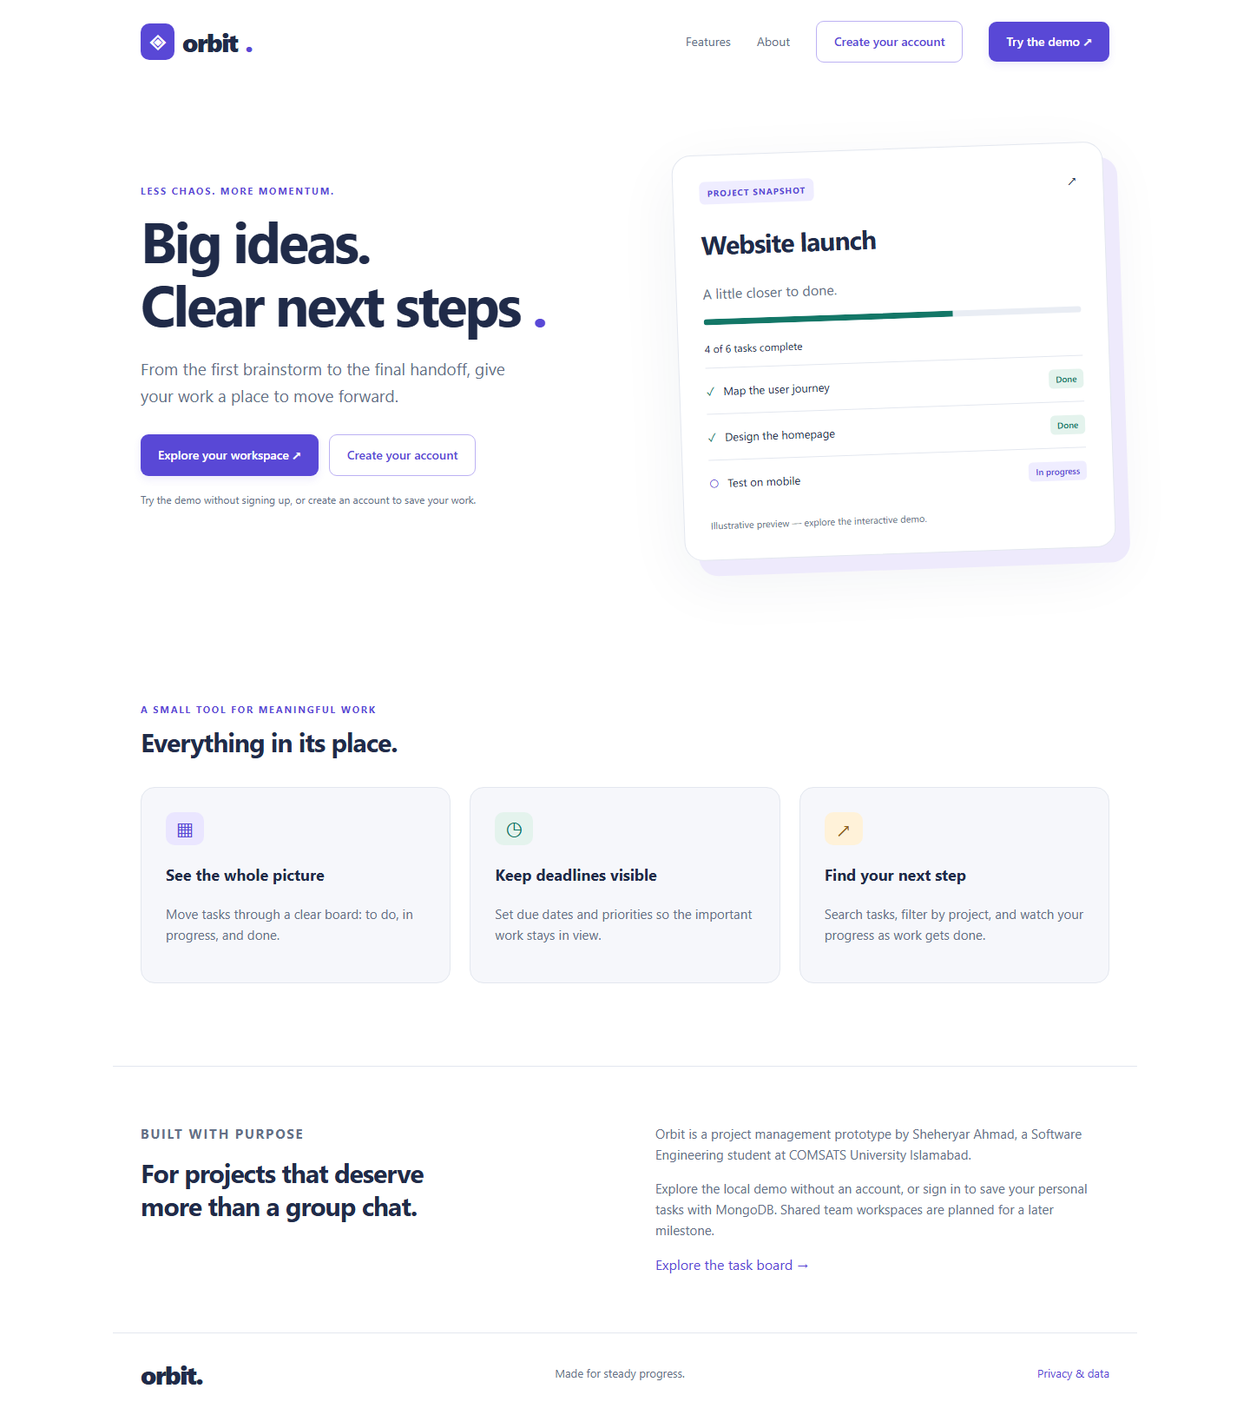
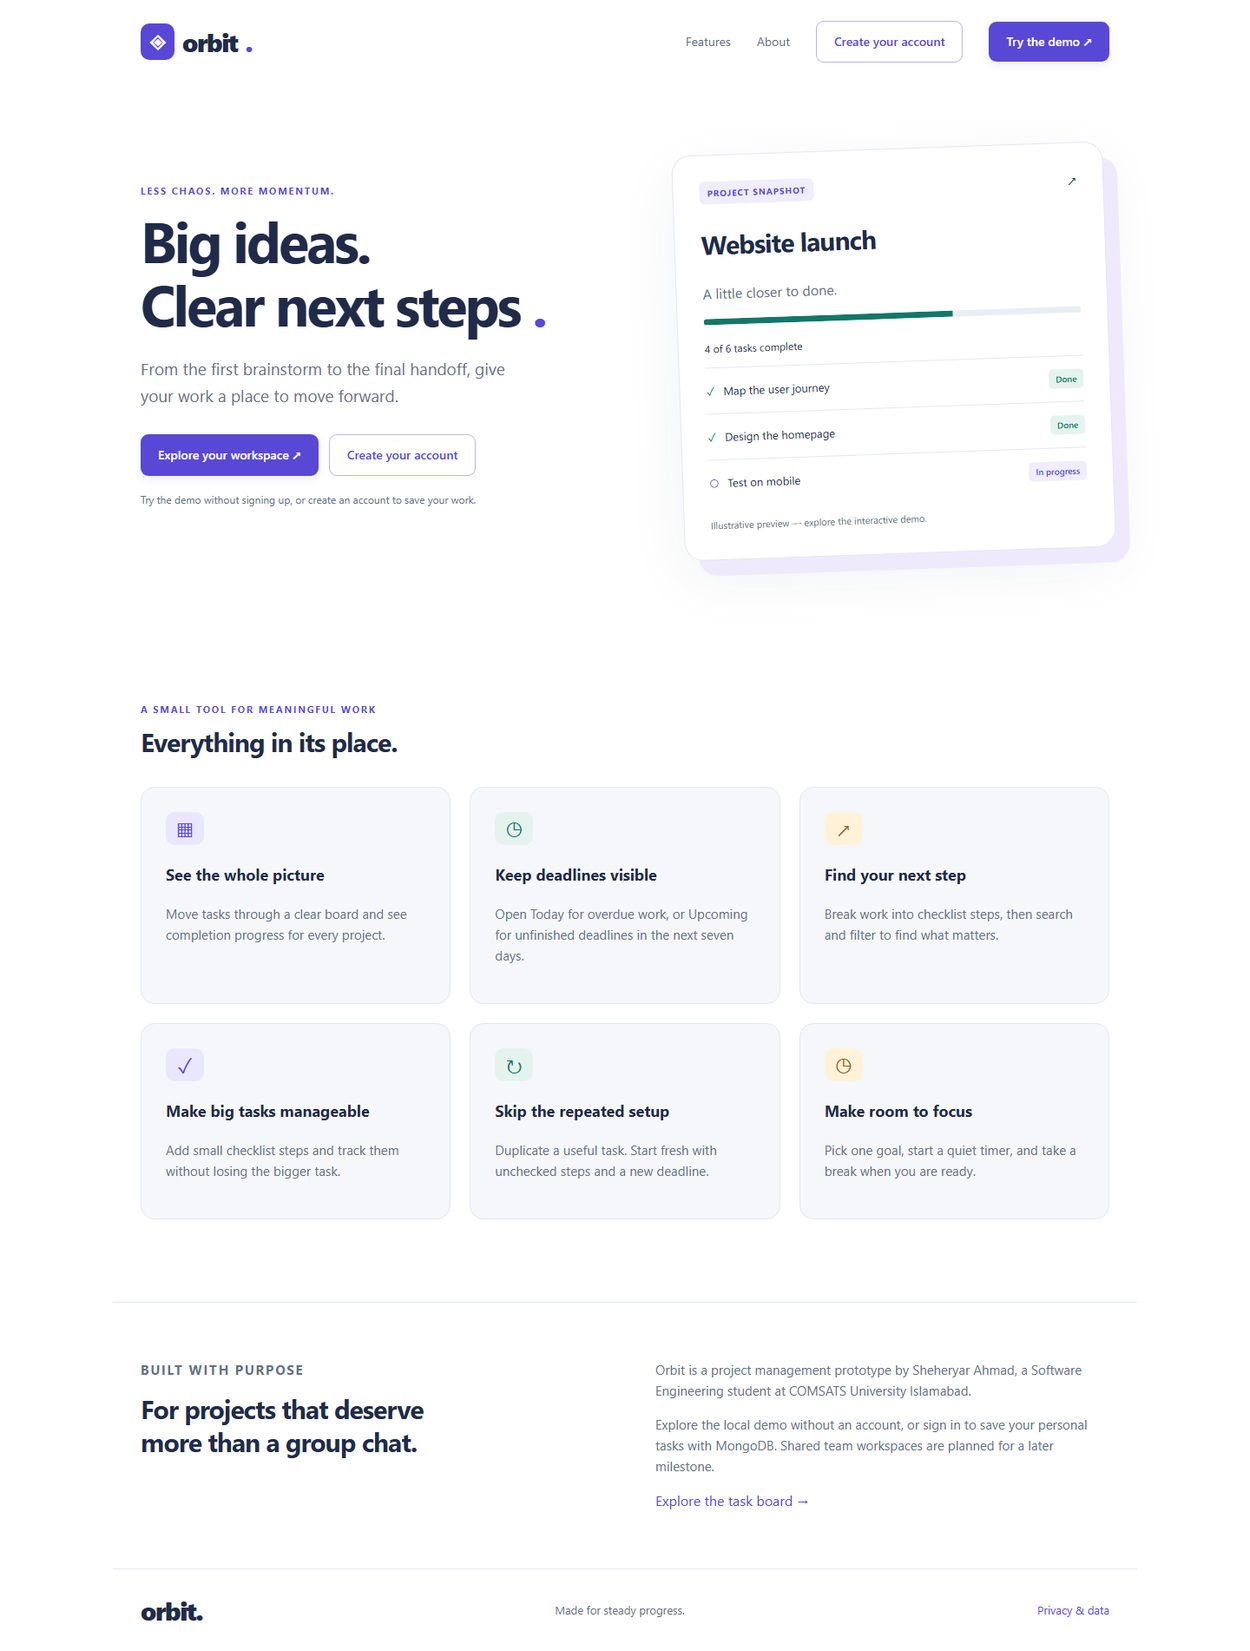
docs: refresh release guide screenshots and monetization plan

diff --git a/README.md b/README.md
@@ -4,7 +4,7 @@
 
 ### A clearer place for projects to move forward.
 
-A MERN project management tool with private accounts, a focused task board, and a no-signup demo.
+A MERN project management tool for deadlines, clear next steps, and calmer daily work.
 
 ![MongoDB](https://img.shields.io/badge/MongoDB-Database-137767?style=flat-square)
 ![Express](https://img.shields.io/badge/Express-API-202b49?style=flat-square)
@@ -26,14 +26,18 @@ A project starts with an idea. Then come the messages, scattered notes, and dead
 
 Built by **Sheheryar Ahmad**, a Semester 5 Software Engineering student at **COMSATS University Islamabad**.
 
-> **Current release: 0.2.0.** Personal task workspaces with MERN persistence and a separate local demo. Shared team projects, invitations, and live collaboration are future milestones. No production deployment is claimed.
+> **Current release: 0.3.0.** Personal workspaces with daily planning, checklists, project progress, a focus timer, MERN persistence, and a separate local demo. Shared team projects, invitations, and live collaboration are future milestones. No production deployment is claimed.
 
 ## A look inside
 
 ![Orbit React task board showing project tasks, priorities, status columns, and progress counters](docs/screenshots/workspace-desktop.png)
 
 <details>
-<summary><strong>See the landing page and mobile workspace</strong></summary>
+<summary><strong>See project progress, the focus timer, and mobile layouts</strong></summary>
+
+![Project overview with completion progress and unfinished deadlines](docs/screenshots/projects-desktop.png)
+
+![Quiet focus timer with pause, reset, and session length controls](docs/screenshots/focus-desktop.png)
 
 ![Orbit landing page introducing the project management tool](docs/screenshots/landing-desktop.png)
 
@@ -52,6 +56,11 @@ Screenshots are from the working local demo using illustrative sample tasks.
 | Task editing             | Create, edit, delete, and update status                            |
 | Project labels           | Keep tasks organized by project and filter the board               |
 | Priorities and deadlines | Make important work and overdue tasks visible                      |
+| Today and Upcoming       | Find overdue work, today’s tasks, and the next seven days          |
+| Checklists               | Break a task into up to 20 steps and track completion              |
+| Project overview         | See completion progress and the earliest unfinished deadline       |
+| Duplicate task           | Reuse a task with fresh steps and a cleared deadline               |
+| Focus timer              | Work in quiet sessions with pause, break, and refresh recovery     |
 | Search                   | Find tasks by title, description, or project label                 |
 | Account-wide overview    | Track total, active, completed, and overdue work                   |
 | Bounded pagination       | Browse 30 tasks per page instead of loading everything             |
@@ -61,6 +70,14 @@ Screenshots are from the working local demo using illustrative sample tasks.
 | Public pages             | Static marketing content and an honest privacy notice              |
 
 **Scope clarification:** projects currently are labels on tasks. They are not shared project entities with members or permissions.
+
+## Small problems, practical workflows
+
+- **A student with several assignments:** check Today, split a submission into research/draft/review steps, then see the week's deadlines in Upcoming.
+- **A freelancer preparing a delivery:** group tasks under the client project, see unfinished deadlines, and duplicate a reusable delivery checklist.
+- **Someone organizing a personal project:** keep the next steps visible and use a quiet focus session to make progress.
+
+Checklist completion and task status are separate: finishing the steps leaves you in control of when the whole task is done. Project percentages count completed tasks, not checklist steps. The timer stays in the same browser and does not send your written focus goal to the server.
 
 ## Getting started
 
@@ -132,9 +149,9 @@ Read [the architecture notes](docs/ARCHITECTURE.md) for the reasoning behind com
 ├── api/                   # Vercel function entry point
 ├── assets/                # Favicon and README artwork
 ├── client/
-│   ├── components/        # Auth screen, task card, task form
+│   ├── components/        # Auth, task forms, projects, focus timer
 │   ├── hooks/             # Workspace loading and mutations
-│   ├── lib/               # API client and isolated demo adapter
+│   ├── lib/               # API client, demo adapter, timer helpers
 │   ├── App.jsx
 │   ├── main.jsx
 │   └── workspace.css
@@ -150,7 +167,7 @@ Read [the architecture notes](docs/ARCHITECTURE.md) for the reasoning behind com
 │   ├── routes/            # Auth and task endpoints
 │   ├── app.js
 │   └── index.js
-├── shared/                # Calendar validation used by client and server
+├── shared/                # Calendar validation and planning rules
 ├── tests/                 # Validation and MongoDB API integration tests
 ├── app.html               # React workspace entry point; noindex
 ├── index.html             # Crawlable public landing page
@@ -189,7 +206,7 @@ npm run build
 npm run format:check
 ```
 
-**Verified locally:** 17 API/input/password tests and Chromium browser flows covering demo CRUD, storage persistence, search, filters, safe text rendering, mobile overflow, dialog Escape, registration, database-backed task persistence, logout, and login.
+**Verified locally:** 25 API/input/planning/timer/password tests and Chromium browser flows covering demo CRUD, storage persistence, search, filters, safe text rendering, mobile overflow, dialog Escape, checklists, task duplication, daily views, overnight date changes, project progress, focus pause/refresh/completion, registration, database-backed task persistence, logout, and login.
 
 For browser checks:
 
@@ -235,8 +252,15 @@ When SITE_URL is configured, the build generates:
 
 No fabricated reviews, keyword stuffing, or unsupported ranking claims. A README improves repository understanding and discoverability; website ranking also depends on deployed content, indexing, usefulness, and real performance. See [the SEO launch checklist](docs/SEO.md).
 
+## Monetization
+
+No ads are installed in this release. The proposed approach keeps the workspace ad-free and considers a clearly labelled unit on useful public planning content after deployment and AdSense approval. SEO does not guarantee approval or income. Read [the monetization plan](docs/MONETIZATION.md).
+
 ## Next milestones
 
+- [ ] Recurring tasks with explicit scheduling rules
+- [ ] Task notes and useful resource links
+- [ ] Export and validated import for personal backups
 - [ ] Separate project entities and shared workspace memberships
 - [ ] Invitations and role-based authorization
 - [ ] Email verification, password reset, and account deletion
@@ -244,7 +268,9 @@ No fabricated reviews, keyword stuffing, or unsupported ranking claims. A README
 - [ ] Accessibility audit and measured production performance
 - [ ] Live deployment link and LinkedIn walkthrough
 
-Once the core is stable, the strongest optional additions are **activity history**, **real-time shared boards**, and **a polished dark theme**.
+The next compact additions to choose from are **recurring tasks**, **task notes and resource links**, and **export/import**. Each should solve a practical need before expanding into shared team workflows.
+
+For a short video, use [the 90-second demo outline](docs/DEMO.md).
 
 ## Author and license
 

diff --git a/docs/API.md b/docs/API.md
@@ -1,21 +1,21 @@
 # Orbit API
 
-Base path: /api. Responses are JSON except successful deletion/logout (204).
-Authenticated requests require the orbit_session cookie.
+Base path: `/api`. Responses are JSON except successful deletion/logout (204).
+Authenticated requests require the `orbit_session` cookie.
 All mutations require an Origin header exactly equal to APP_ORIGIN.
 
-| Method | Endpoint                        | Purpose                                 |
-| ------ | ------------------------------- | --------------------------------------- |
-| GET    | /health                         | Liveness only; not database readiness   |
-| POST   | /auth/register                  | Create account: name, email, password   |
-| POST   | /auth/login                     | Sign in: email, password                |
-| GET    | /auth/me                        | Current account                         |
-| POST   | /auth/logout                    | Revoke current session                  |
-| GET    | /tasks                          | List owned tasks                        |
-| GET    | /tasks/overview?date=YYYY-MM-DD | Whole-account counts and project labels |
-| POST   | /tasks                          | Create owned task                       |
-| PATCH  | /tasks/:id                      | Update supplied fields only             |
-| DELETE | /tasks/:id                      | Delete owned task                       |
+| Method | Endpoint                        | Purpose                               |
+| ------ | ------------------------------- | ------------------------------------- |
+| GET    | /health                         | Liveness only; not database readiness |
+| POST   | /auth/register                  | Create account: name, email, password |
+| POST   | /auth/login                     | Sign in: email, password              |
+| GET    | /auth/me                        | Current account                       |
+| POST   | /auth/logout                    | Revoke current session                |
+| GET    | /tasks                          | List owned tasks                      |
+| GET    | /tasks/overview?date=YYYY-MM-DD | Account counts and project summaries  |
+| POST   | /tasks                          | Create owned task                     |
+| PATCH  | /tasks/:id                      | Update supplied fields only           |
+| DELETE | /tasks/:id                      | Delete owned task                     |
 
 ## Task fields
 
@@ -25,10 +25,32 @@ All mutations require an Origin header exactly equal to APP_ORIGIN.
 - priority: low, medium, high
 - status: todo, progress, done
 - due: empty string or real calendar date between 2000 and 2100
+- checklist: optional array, default empty, up to 20 steps
+
+Each checklist step contains a unique string `id` (1–100 characters), trimmed `text` (1–160 characters), and boolean `done`. Updating a checklist replaces that array, leaving unspecified task fields unchanged. Completing every step does not automatically change task status. Existing tasks without a checklist serialize as an empty array.
 
 Ownership and timestamps are managed by the server. Sending owner or other unrecognized fields is rejected.
 
-List parameters: page (1–10,000), limit (1–50), search (up to 120 characters), project (up to 60). Response contains tasks, hasMore, and page. Project filter uses an exact label. Summary project labels are capped at 1,000.
+## Listing and planning
+
+List parameters: page (1–10,000), limit (1–50), search (up to 120 characters), project (up to 60), view (all, today, upcoming), date (YYYY-MM-DD).
+
+- `view=all` is the default; date is optional.
+- `view=today` requires date and returns unfinished tasks due on or before that date.
+- `view=upcoming` requires date and returns unfinished tasks due after that date and within seven calendar days.
+- Undated and completed tasks appear only in the all view.
+- Search and exact project filters can combine with either planning view.
+- Planning lists sort by due date, then ID. The all view sorts by latest update, then ID.
+
+Example: `GET /api/tasks?view=upcoming&date=2026-10-09&page=1&limit=30` includes October 10–16.
+
+Response contains tasks, hasMore, and page. Dates represent calendar days in the user's browser, rather than UTC instants. All query filters retain the authenticated owner.
+
+## Overview
+
+The overview requires a valid date and returns total, active (in progress), completed, overdue, projects (label names), and projectSummaries. Each project summary contains name, total, active, completed, overdue, and nextDue (earliest unfinished deadline or null).
+
+Counts include the whole account, independently of task pagination and current filters. Project labels and summaries are capped at 1,000, sorted by label. They describe task groups, not shared project entities.
 
 ## Errors
 

diff --git a/docs/TESTING.md b/docs/TESTING.md
@@ -2,8 +2,8 @@
 
 ## Automated checks
 
-- npm run test:unit: dates, field limits, injection rejection, partial updates, pagination, and password hashing.
-- npm test: real temporary MongoDB tests for safe account responses, cookies, authorization, literal search, pagination, expiry, and logout.
+- npm run test:unit: dates, field limits, injection rejection, partial updates, pagination, checklist constraints, planning boundaries, timer calculations, and password hashing.
+- npm test: real temporary MongoDB tests for safe account responses, cookies, authorization, literal search, pagination, expiry, logout, planning queries, owner-scoped project summaries, and checklist persistence.
 - npm run test:browser: Chromium demo and database-backed account flows, screenshots, mobile overflow, and uncaught errors.
 - npm run build: compile the multipage public site and React workspace.
 - npm run format:check: consistent formatting.
@@ -25,6 +25,19 @@ Temporary databases and downloaded tools stay in the ignored project cache. Inte
 - Block browser storage: demo saves must fail visibly.
 - Reset demo requires confirmation and does not alter account tasks.
 
+## Planning, reuse, and focus
+
+- Give four unfinished tasks dates of yesterday, today, tomorrow, and eight days ahead. Today includes the first two; Upcoming includes only tomorrow. Completed and undated tasks are excluded from both.
+- Leave a tab open across midnight or return to it the next day. The calendar views must update without reloading.
+- Add, edit, remove, and complete checklist steps. Refresh and confirm progress is saved. Empty text and duplicate step IDs must be rejected; the limit is 20.
+- Completing all steps must not silently change task status.
+- Duplicate a completed task with a date and completed steps. The new form must keep the content but start To do with no date and unchecked steps. Cancel must create nothing; save must keep the original intact.
+- Confirm project totals, task completion percentage, overdue counts, and earliest unfinished deadlines. Completed/undated tasks must not provide that deadline.
+- Open a project card: the task board must select its exact label. Test project search and pagination with many labels.
+- Start, pause, resume, reset, and finish a focus session. Switch views and refresh while running: remaining time should reflect the original deadline.
+- Check focus and break modes, blocked local storage, narrow mobile layout, and keyboard controls. No alarm or popup should interrupt work.
+- Sign in with a second account: timer state must not carry across accounts. The demo has its own timer state.
+
 ## Account checks
 
 - Register, refresh, sign out, and sign in.
@@ -40,6 +53,8 @@ Temporary databases and downloaded tools stay in the ignored project cache. Inte
 - Inspect widths of 375, 768, and 1440 pixels, and 200% zoom.
 - Verify contrast and reduced-motion preferences.
 - Check console errors and missing assets.
+
+Automated browser coverage verifies the primary flows above; exhaustive accessibility, multi-browser behavior, and large-account load checks still require review.
 
 ## Deployment checks still required
 

diff --git a/docs/MONETIZATION.md b/docs/MONETIZATION.md
@@ -1,0 +1,35 @@
+# Monetization without interrupting work
+
+**Current status:** Orbit contains no advertising code, publisher IDs, or analytics scripts. Deployment, AdSense site review, and account details are still pending.
+
+## Which Google product?
+
+AdSense lets publishers earn from ads on their content. Google Ads is the advertiser product used to pay for campaigns. A polished interface or SEO metadata alone does not establish AdSense eligibility: Google asks for original, useful content and policy compliance. See [AdSense eligibility](https://support.google.com/adsense/answer/9724/eligibility-requirements-for-adsense?hl=en-GB).
+
+## Proposed placement
+
+Keep task boards, account screens, task forms, project dashboards, and focus sessions ad-free. These screens exist to help someone finish work.
+
+After deployment and site approval, consider a single responsive ad within a substantial public planning guide, after its useful content. Examples of worthwhile guides: breaking a deadline into steps, planning a small website launch, or managing semester assignments. Write them for real readers, with practical examples; do not publish thin pages merely to create ad inventory.
+
+Google excludes ads on screens with absent or low-value publisher content and certain behavioral screens. A landing page is not automatically eligible just because it has text. This placement plan is a product recommendation, not a promise of approval. See [publisher-content policy](https://support.google.com/publisherpolicies/answer/11112688?hl=en).
+
+## Integration requirements
+
+Before adding a live unit:
+
+1. Publish the production site and complete Google's account/site review requirements.
+2. Supply the actual publisher and ad-slot IDs. Do not invent or copy someone else's IDs.
+3. Confirm the selected public page qualifies for ads and update privacy/consent behavior for the chosen ad configuration and audience.
+4. Label the placement **Advertisements** or **Sponsored links**. Keep it visually separate from navigation and action buttons.
+5. Reserve responsive space so an arriving ad does not shift the reading position.
+6. Review the current Content Security Policy and allow only services the integration needs; do not simply disable it.
+7. Test on mobile, with blocked scripts, slow networks, and an empty ad response. The page must remain useful.
+
+Avoid overlays, interstitial interruptions, or ads beside Save/Delete controls. Google advises clear separation and a clean reading experience. See [ad placement guidance](https://support.google.com/adsense/answer/1282097?hl=en).
+
+## Evaluating results
+
+Measure returning users and page usefulness before optimizing revenue. Approval, traffic, ad availability, and earnings are not guaranteed. Website ranking also needs live indexing and performance verification; the current SEO implementation is a technical foundation.
+
+Do not send task titles, checklist contents, project labels, or account details to advertising services. Revisit this plan when an approved production site is available.

diff --git a/docs/ARCHITECTURE.md b/docs/ARCHITECTURE.md
@@ -31,6 +31,18 @@ The local demo uses a different adapter. It never sends demo tasks to the accoun
 
 **SEO:** the marketing pages stay static and discoverable. The private workspace uses noindex, while API authorization protects the actual data.
 
+## Planning and checklist patterns
+
+**Calendar views:** Today includes unfinished work due today or overdue. Upcoming includes tomorrow through seven days ahead. The browser supplies its local calendar date; shared date helpers keep boundary calculations consistent without shifting a chosen deadline across timezones. A minute check and visibility event refresh the views after midnight.
+
+**Stored steps, derived progress:** checklist steps are embedded within their task, capped at 20, with unique IDs. The API validates the full replacement array and owner-scopes updates. Counts and percentages are derived from current records, avoiding separate progress values that can drift out of sync.
+
+**Project overview:** MongoDB groups only the owner's tasks by project label. Summary cards include account-wide counts and the earliest unfinished due date. The UI paginates project cards; overview and focus views avoid fetching a task page they do not display.
+
+**Duplicate task:** copying opens an editable new-task form. The copy starts To do, with no deadline, fresh step IDs, and unchecked steps. Saving creates a new owned record; the original is unchanged.
+
+**Focus timer:** a running session stores a deadline rather than decrementing a counter. Remaining time derives from the wall clock, so delayed browser callbacks do not accumulate drift. Timer state is local and separated by demo/account ID, survives refresh, and ends quietly. It is not cross-device synchronization or work-time reporting; the written goal is not persisted.
+
 ## Current scope
 
 Projects are task group labels, not separate project entities. There are no memberships, invitations, roles, shared boards, or real-time synchronization in this milestone. Those require separate authorization rules and tests.

diff --git a/docs/DEMO.md b/docs/DEMO.md
@@ -1,0 +1,13 @@
+# A short Orbit walkthrough
+
+Aim for about 90 seconds. Use the local demo and illustrative tasks, not private account data.
+
+1. **The problem (10 seconds):** “Small projects become harder when deadlines, next steps, and progress are scattered. Orbit keeps them in one personal workspace.”
+2. **Today and Upcoming (15 seconds):** Open Today to show overdue work and today's deadlines. Open Upcoming to show the next seven days.
+3. **Make a task actionable (20 seconds):** Create a task, set a deadline, and add two checklist steps. Save, then complete one step directly from the card.
+4. **Reuse work (10 seconds):** Duplicate the task. Show that its deadline is cleared and its checklist is ready to start again.
+5. **See the project (15 seconds):** Open Projects. Explain the progress, overdue count, and next unfinished deadline; open that project's tasks.
+6. **Protect focus (10 seconds):** Start the focus timer, pause, and resume. Mention that it survives a refresh in the same browser.
+7. **The implementation (10 seconds):** “React powers the workspace, Express validates requests, and MongoDB saves private account tasks. The demo stays in local browser storage.”
+
+Close with the repository link and, after deployment, the verified live URL. Describe this release as a personal workspace; shared team collaboration and recurring tasks are not implemented. Do not claim production performance, security certification, search rankings, or ad revenue without evidence.
